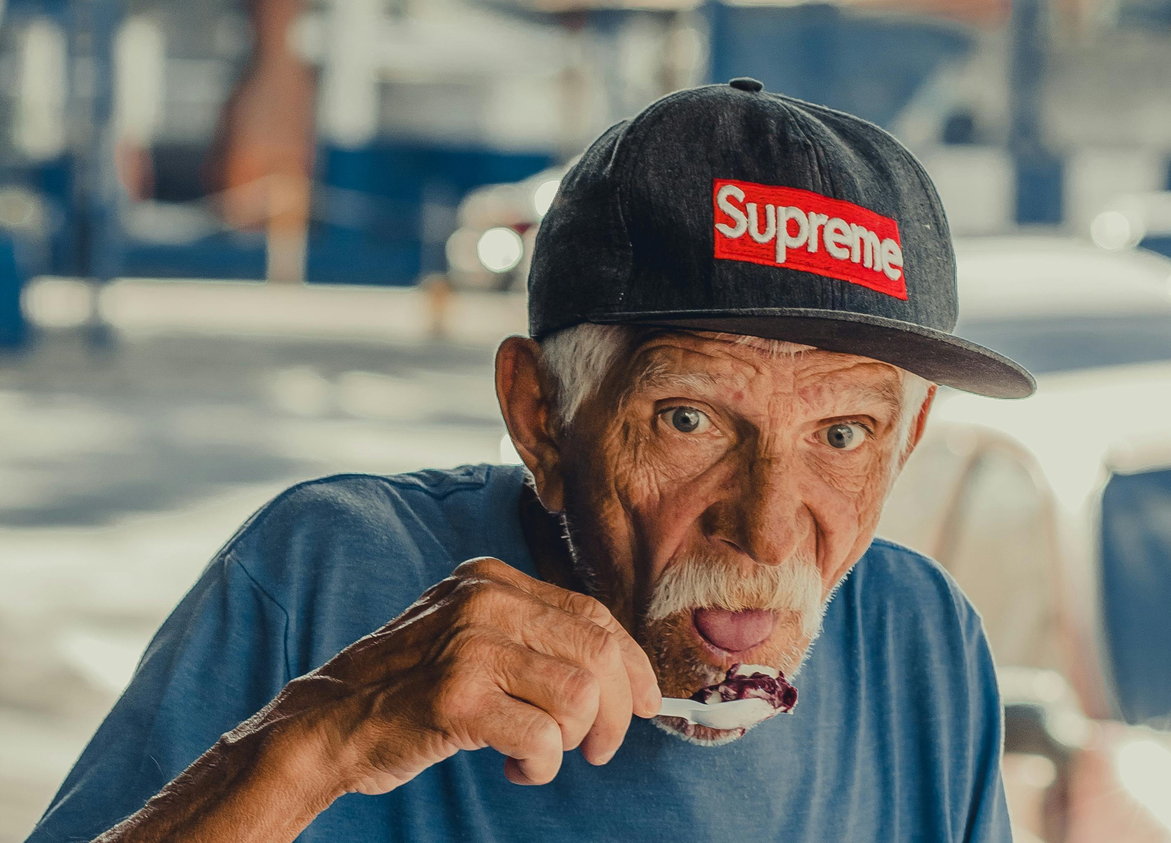
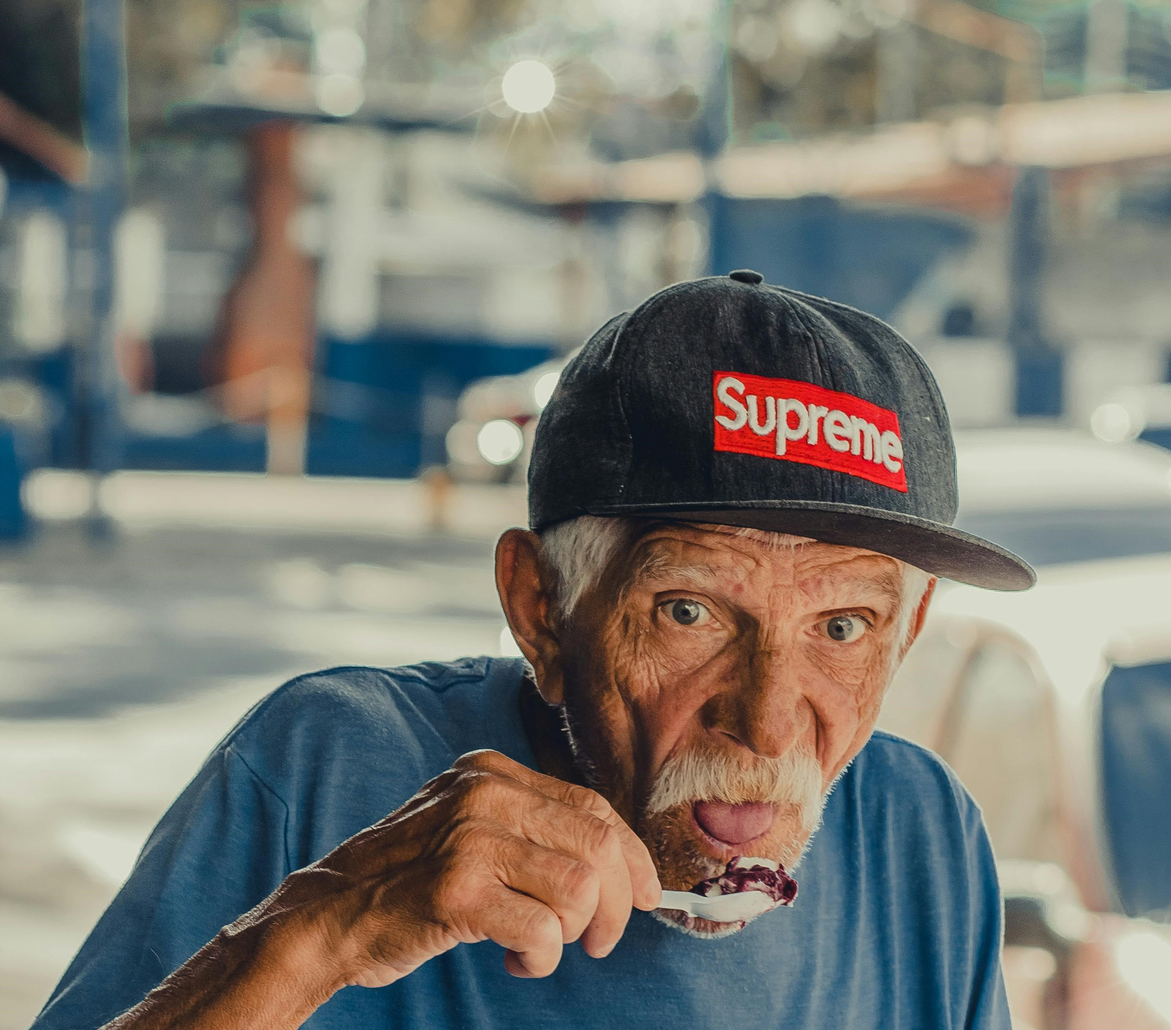
Bilder angepasst + center-block

diff --git a/index/index.html b/index/index.html
@@ -35,18 +35,18 @@
         </div>
     </nav>
     <main>
-        <div class="container">
-            <img src="../img/newcollection/anker_bild_links_aktuell.jpg" alt="Mann mit Supreme Cap" class="side-image-left" />
-            
-            <div class="center-block">
-              <a href="#start" class="button">CHOOSE YOUR STYLE</a>
-            </div>
-            
-            <img src="../img/newcollection/anker_bild_rechts_aktuell.jpg" alt="Mann mit Brille, Cap und Fahrrad im Hintergrund" class="side-image-right" />
-        </div>
+
 
     </main>
-
+        <div class="container">
+            <img src="../img/newcollection/anker_bild_links_test.jpg" alt="Mann mit Supreme Cap" class="side-image-left" />
+            
+            <div class="center-block">
+            <a href="#start" class="button">CHOOSE YOUR STYLE</a>
+            </div>
+            
+            <img src="../img/newcollection/anker_bild_rechts_test.jpg" alt="Mann mit Brille, Cap und Fahrrad im Hintergrund" class="side-image-right" />
+        </div>
     
 
 

diff --git a/index/styles.css b/index/styles.css
@@ -220,7 +220,7 @@ a {
   
 .side-image-left, .side-image-right {
     width: 100%;
-    max-height: 150px;
+    max-height: 340px;
     object-fit: cover;
 }
   
@@ -231,8 +231,8 @@ a {
     background-color: #000;
     color: #fff;
     padding: 20px;
-    height: 110px;
-    width: 300px;
+    height: 300px;
+    width: 500px;
 }
   
 .button {
